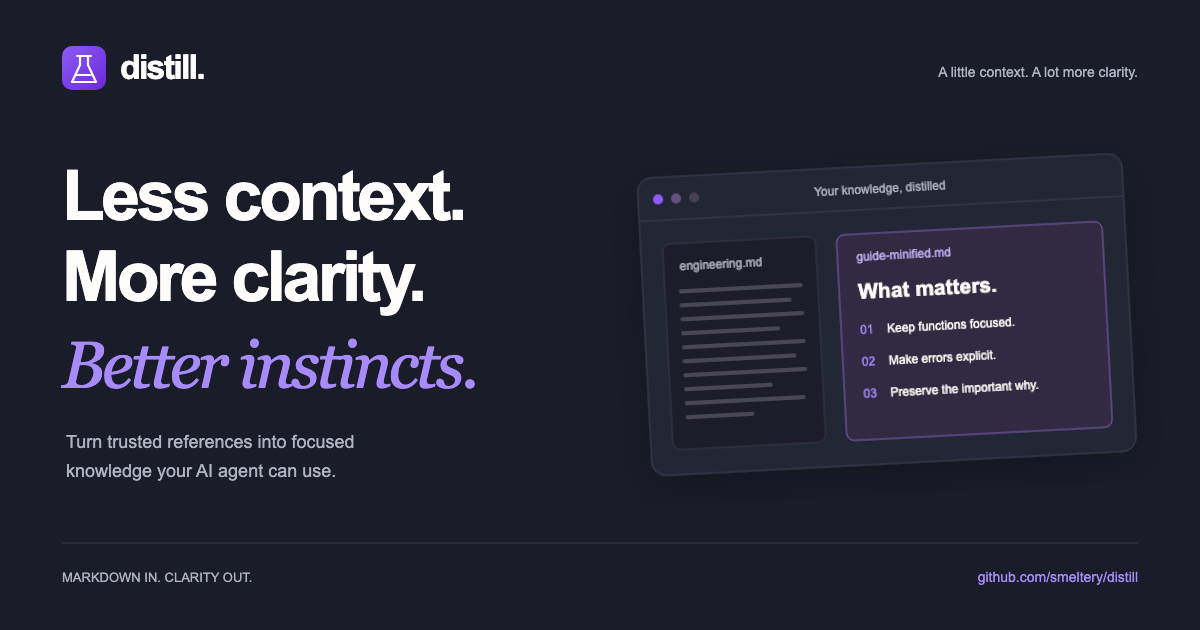
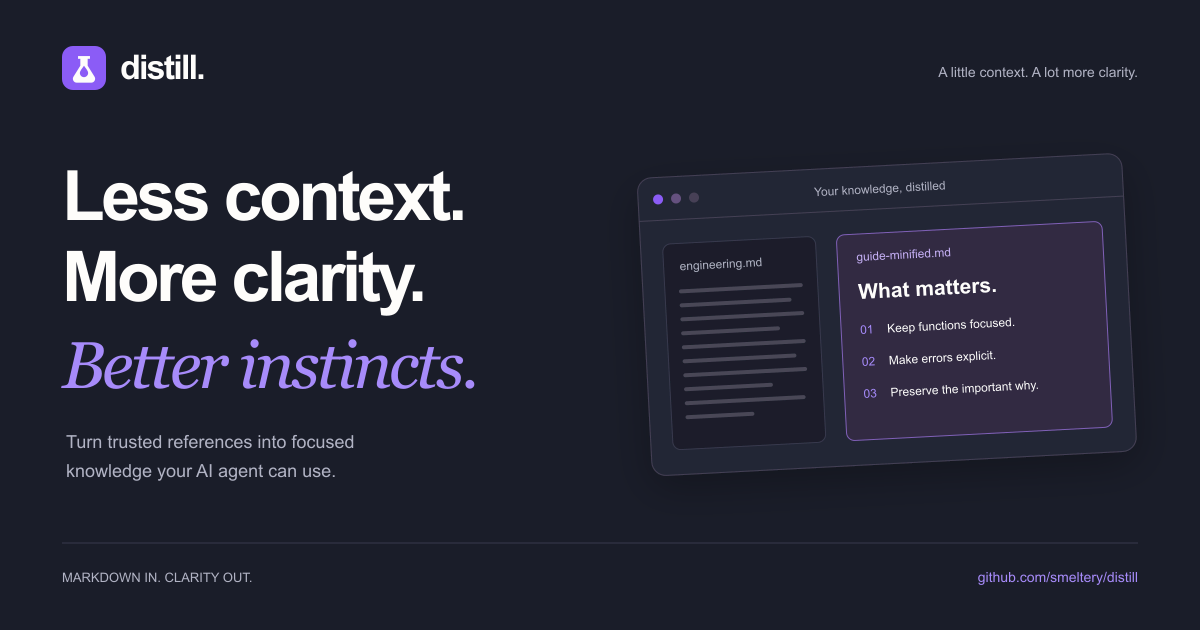
feat: simplify the Distill mark for clearer recognition

diff --git a/website/app/brand/page.tsx b/website/app/brand/page.tsx
@@ -40,9 +40,10 @@ export default function BrandPage() {
             <em>Make it recognizable.</em>
           </h2>
           <p>
-            A small flask for a simple idea: keep what matters. Use the mark on
-            its own when space is tight, or pair it with the Distill name when
-            making an introduction.
+            A solid flask, with a single drop cut from its center. A simple
+            symbol for keeping the essence. Use the mark on its own when space
+            is tight, or pair it with the Distill name when making an
+            introduction.
           </p>
           <div className="brand-marks">
             <figure>
